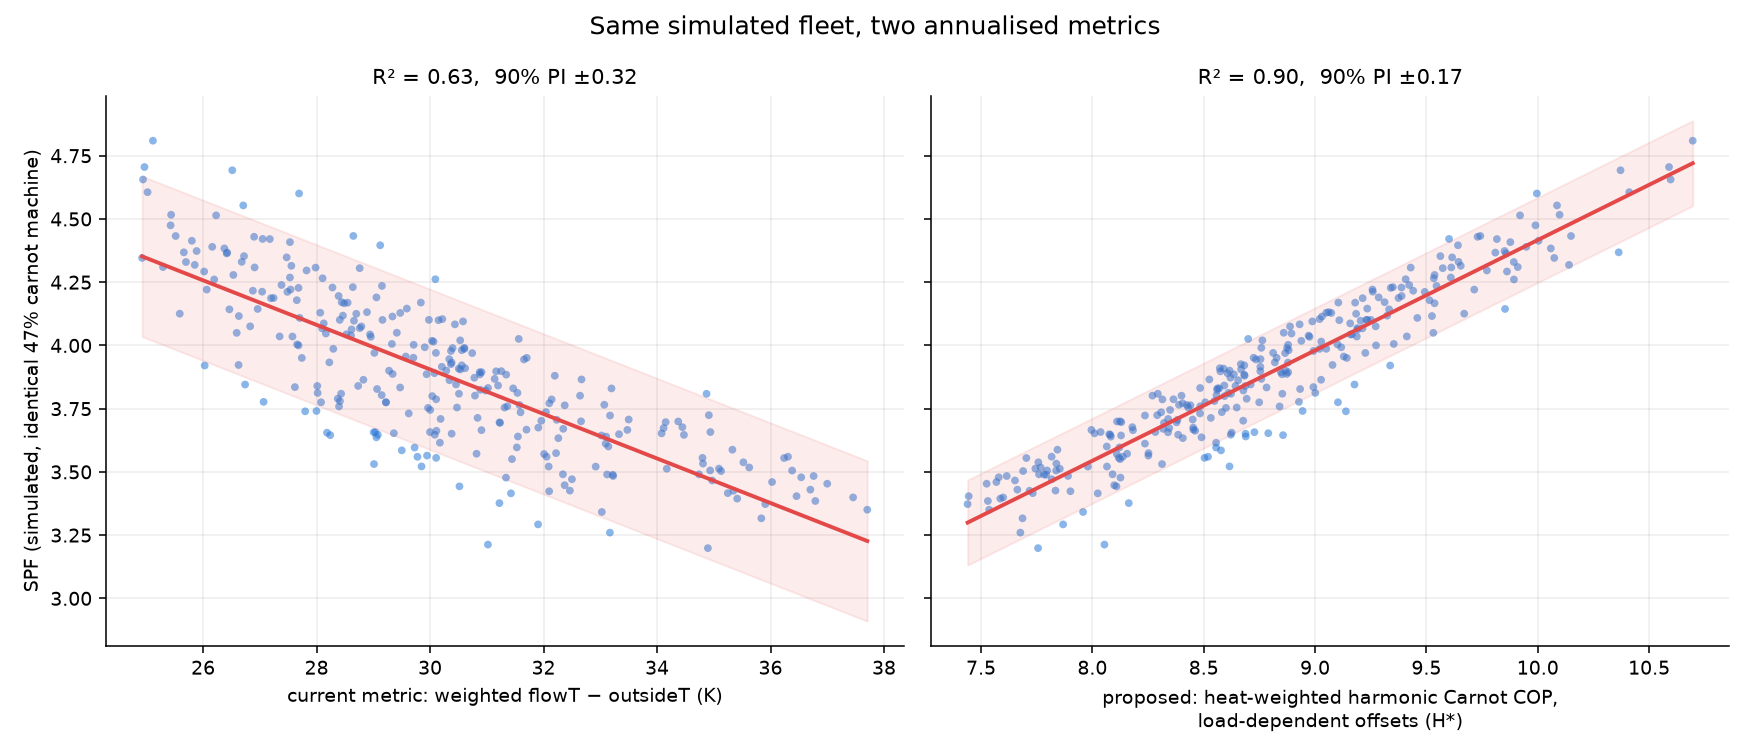
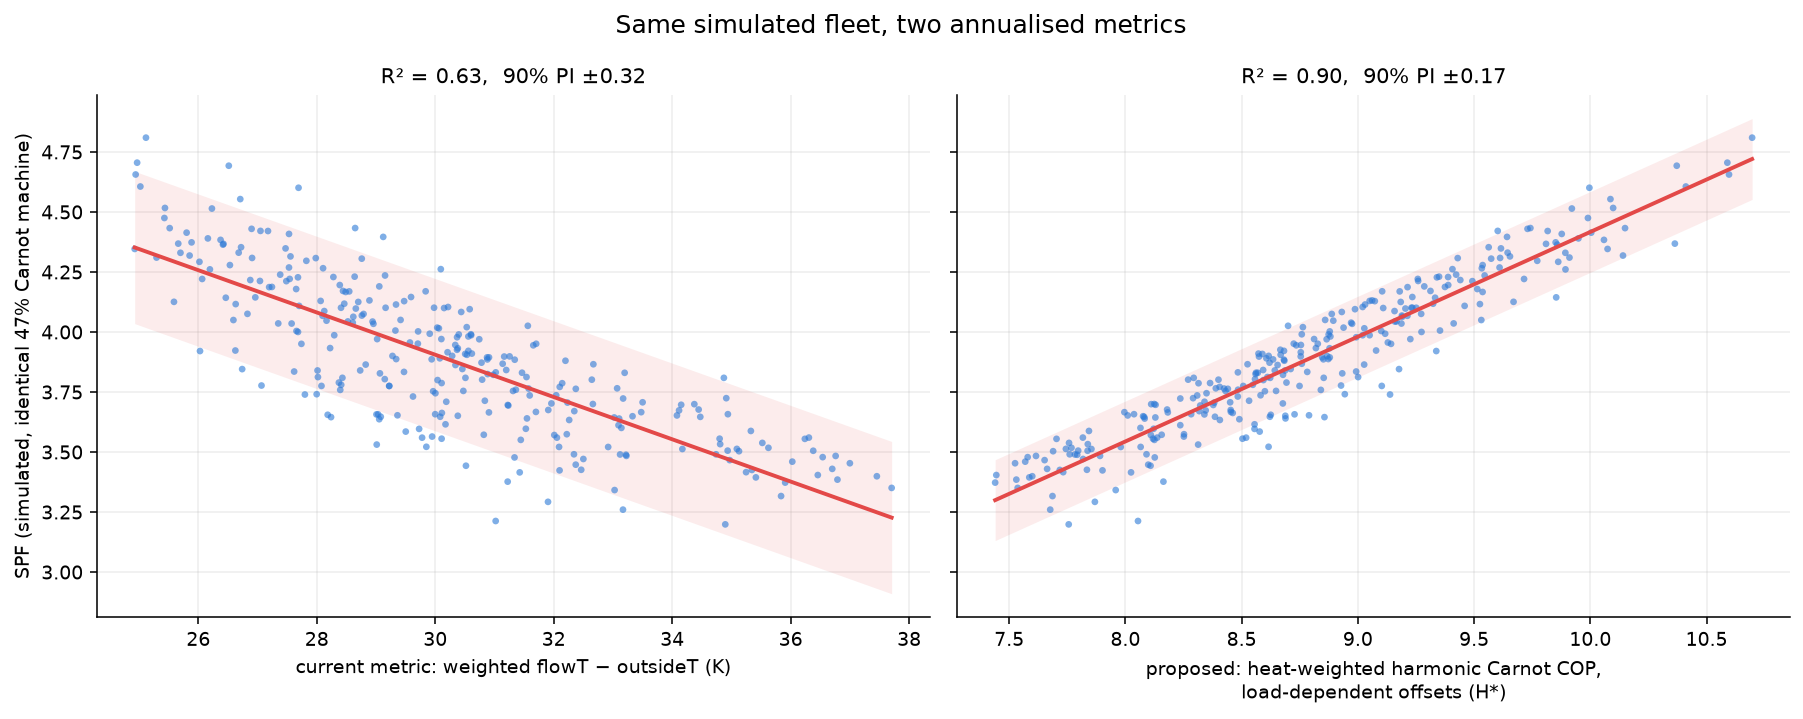
Bring performance prediction scripts in line with the docs
residual_analysis.py and the residual figure use the dT + log annual heat
model the docs quote. modulation_analysis.py only rewrites the committed
modulation_features.csv with --save. New hstar_plots.py and
metric_collapse_plot.py regenerate the three figures that had no script.
README records the tools commits and branch the October sweeps and twins
were run from.

diff --git a/analysis/performance_prediction/scripts/hstar_plots.py b/analysis/performance_prediction/scripts/hstar_plots.py
@@ -1,0 +1,109 @@
+#!/usr/bin/env python3
+"""Figures for the H* fleet test (docs/load_and_quality.md).
+
+  hstar_p_test.png         A: SPF against H*, B: the P test, SPF/H_fixed against P = H*/H_fixed
+  utilisation_vs_rbar.png  utilisation against heat-weighted mean load ratio r-bar
+
+Validated air source systems from the raw feed scan, as in analyse_hstar_fleet.py.
+r-bar comes from the per-system histogram hstar_hist.csv (not in git; regenerate
+with scripts/feed_scan/feed_scan_5.php at the repo root).
+
+Usage: python3 scripts/hstar_plots.py
+"""
+
+import numpy as np
+import pandas as pd
+import matplotlib
+matplotlib.use("Agg")
+import matplotlib.pyplot as plt
+from matplotlib.colors import LinearSegmentedColormap
+
+from hpmon_analysis import linfit, ROOT, FIGURES
+
+BLUE, ORANGE, INK, GRAY = "#2a78d6", "#e8692f", "#333333", "#52514e"
+SEQ = LinearSegmentedColormap.from_list("blues", ["#dbe9f9", "#2a78d6", "#0c2d5c"])
+
+# ---------- data ----------
+s = pd.read_csv(ROOT / "hstar_fleet_hist.csv")
+s = s[(s.hp_type == "Air Source")
+      & ((s.calc_weighted_dT - s.rec_weighted_dT).abs() <= 0.5)
+      & ((s.spf_window - s.rec_combined_cop).abs() <= 0.25)].copy()
+s["id"] = s.id.astype(str)
+
+h = pd.read_csv(ROOT / "hstar_hist.csv", dtype={"id": str})
+h = h[h.id.isin(s.id)]
+rbar = (h.heat_kwh * h.r).groupby(h.id).sum() / h.heat_kwh.groupby(h.id).sum()
+s["r_bar"] = s.id.map(rbar)
+s["utilisation"] = s.heat_kwh_all * 365 / s.days_scanned / (s.hp_output_kw * 8760)
+s["P"] = s.H_star / s.H_fixed
+s["quality"] = s.spf_window / s.H_fixed
+n = len(s)
+print(f"validated air source systems: {n}")
+print(f"r_bar median {s.r_bar.median():.2f} sd {s.r_bar.std():.2f};  "
+      f"utilisation median {s.utilisation.median():.2f};  sd(P) {s.P.std():.3f}")
+
+
+def style(ax):
+    ax.grid(alpha=0.22)
+    ax.set_axisbelow(True)
+    for side in ("top", "right"):
+        ax.spines[side].set_visible(False)
+
+
+# ---------- hstar_p_test.png ----------
+fig, (a, b) = plt.subplots(1, 2, figsize=(14, 6))
+for ax in (a, b):
+    style(ax)
+
+fa = linfit(s.H_star, s.spf_window)
+corr = np.corrcoef(s.H_star, -s.calc_weighted_dT)[0, 1]
+sc = a.scatter(s.H_star, s.spf_window, c=s.calc_weighted_dT, cmap=SEQ, s=26,
+               edgecolors="none", alpha=0.9)
+xs = np.linspace(s.H_star.min(), s.H_star.max(), 50)
+a.plot(xs, fa["slope"] * xs + fa["intercept"], color=INK, lw=1.2, ls="--")
+fig.colorbar(sc, ax=a, pad=0.02).set_label("weighted flowT − outsideT (K)")
+a.set_xlabel("H*: ideal COP, temperatures + load")
+a.set_ylabel("Measured SPF")
+a.set_title(f"A. SPF against H* mostly restates temperature\n"
+            f"R² = {fa['r2']:.2f}, corr(H*, −ΔT) = {corr:.2f}", loc="left", fontsize=11)
+
+fb = linfit(s.P, s.quality)
+q = (s.spf_window / s.H_star).median()
+b.scatter(s.P, s.quality, s=26, color=BLUE, edgecolors="none", alpha=0.75)
+xs = np.linspace(s.P.min(), s.P.max(), 50)
+b.plot(xs, q * xs, color=ORANGE, lw=2, label=f"identical machines (slope q ≈ {q:.2f})")
+b.plot(xs, fb["slope"] * xs + fb["intercept"], color=INK, lw=2, ls="--",
+       label=f"observed fit (slope {fb['slope']:+.2f})")
+b.legend(frameon=False, loc="upper left")
+b.set_xlabel("P = H*/H_fixed: the load model's adjustment for the year")
+b.set_ylabel("SPF / H_fixed: performance against temperature-only benchmark")
+b.set_title(f"B. The P test: the predicted slope is absent\n"
+            f"{n} validated air source systems, corr = {fb['r']:+.2f}", loc="left", fontsize=11)
+
+fig.tight_layout()
+out = FIGURES / "hstar_p_test.png"
+fig.savefig(out, dpi=140, bbox_inches="tight")
+print("saved", out)
+
+# ---------- utilisation_vs_rbar.png ----------
+ok = s.r_bar.notna()
+fu = linfit(s.r_bar[ok], s.utilisation[ok])
+fig, ax = plt.subplots(figsize=(9, 6.5))
+style(ax)
+ax.scatter(s.r_bar[ok], s.utilisation[ok], s=26, color=BLUE, edgecolors="none", alpha=0.75)
+xs = np.linspace(s.r_bar[ok].min(), s.r_bar[ok].max(), 50)
+ax.plot(xs, fu["slope"] * xs + fu["intercept"], color=INK, lw=1.2, ls="--")
+ax.text(0.06, 0.82, "runs long hours,\ngently modulating", transform=ax.transAxes,
+        color=GRAY, ha="left")
+ax.text(0.97, 0.08, "runs rarely, but\nhard when it does", transform=ax.transAxes,
+        color=GRAY, ha="right")
+ax.set_ylim(bottom=0)
+ax.set_xlabel("r̄: heat-weighted mean load ratio while running")
+ax.set_ylabel("Utilisation: annual heat ÷ (capacity × hours)")
+ax.set_title(f"Utilisation and mean load ratio are related but far from the same thing\n"
+             f"{ok.sum()} validated air source systems, r = {fu['r']:+.2f}",
+             loc="left", fontsize=11)
+fig.tight_layout()
+out = FIGURES / "utilisation_vs_rbar.png"
+fig.savefig(out, dpi=140, bbox_inches="tight")
+print("saved", out)

diff --git a/analysis/performance_prediction/scripts/metric_collapse_plot.py b/analysis/performance_prediction/scripts/metric_collapse_plot.py
@@ -1,0 +1,49 @@
+#!/usr/bin/env python3
+"""metric_collapse.png: the July 2026 simulator sweep against weighted dT and H*.
+
+Every simulated design has the same 47%-of-Carnot machine, so this shows how
+much of the scatter around SPF ~ dT H* removes when machines are identical
+(README section 4). Same comfort filter as metric_comparison.py.
+
+Usage: python3 scripts/metric_collapse_plot.py
+"""
+
+import numpy as np
+import pandas as pd
+import matplotlib
+matplotlib.use("Agg")
+import matplotlib.pyplot as plt
+
+from hpmon_analysis import linfit, ROOT, FIGURES
+
+BLUE, RED = "#2a78d6", "#e34948"
+
+s = pd.read_csv(ROOT / "sim_results.csv")
+s = s[s.degree_hours_below_setpoint < 2500].reset_index(drop=True)
+print(f"simulated designs after comfort filter: {len(s)}")
+
+panels = [
+    ("weighted_flowT_minus_outsideT", "current metric: weighted flowT − outsideT (K)"),
+    ("H_carnot_var", "proposed: heat-weighted harmonic Carnot COP,\nload-dependent offsets (H*)"),
+]
+fig, axes = plt.subplots(1, 2, figsize=(13, 5.2), sharey=True)
+for ax, (col, label) in zip(axes, panels):
+    fit = linfit(s[col], s.spf)
+    xs = np.linspace(s[col].min(), s[col].max(), 50)
+    ys = fit["slope"] * xs + fit["intercept"]
+    ax.fill_between(xs, ys - fit["pi90"], ys + fit["pi90"], color=RED, alpha=0.1, lw=0)
+    ax.scatter(s[col], s.spf, s=12, color=BLUE, alpha=0.6, edgecolors="none")
+    ax.plot(xs, ys, color=RED, lw=2)
+    ax.grid(alpha=0.22)
+    ax.set_axisbelow(True)
+    for side in ("top", "right"):
+        ax.spines[side].set_visible(False)
+    ax.set_xlabel(label)
+    ax.set_title(f"R² = {fit['r2']:.2f},  90% PI ±{fit['pi90']:.2f}", fontsize=11)
+    print(f"{col:32s} R2 {fit['r2']:.3f}  PI ±{fit['pi90']:.2f}")
+axes[0].set_ylabel("SPF (simulated, identical 47% Carnot machine)")
+fig.suptitle("Same simulated fleet, two annualised metrics", fontsize=13)
+fig.tight_layout()
+out = FIGURES / "metric_collapse.png"
+fig.savefig(out, dpi=140, bbox_inches="tight")
+print("saved", out)

diff --git a/analysis/performance_prediction/scripts/residual_analysis.py b/analysis/performance_prediction/scripts/residual_analysis.py
@@ -68,6 +68,7 @@ def build_features(f):
 
     # --- demand / DHW ---
     X["annual_heat_kwh"] = num(f.combined_heat_kwh)
+    X["ln_heat_mwh"] = np.log(num(f.combined_heat_kwh) * 365 / days / 1000)   # annualised
     X["heat_kwh_per_m2"] = num(f.combined_heat_kwh_per_m2).replace(0, np.nan)
     X["dhw_frac"] = num(f.water_heat_kwh) / (num(f.space_heat_kwh) + num(f.water_heat_kwh))
     X["water_cop"] = num(f.water_cop)
@@ -175,6 +176,7 @@ def main():
         "dT + flow_return_dT": ["dT", "flow_return_dT"],
         "dT + load_factor": ["dT", "load_factor"],
         "dT + annual_heat_kwh": ["dT", "annual_heat_kwh"],
+        "dT + ln annual heat (best small model)": ["dT", "ln_heat_mwh"],
         "dT + standby_elec_frac": ["dT", "standby_elec_frac"],
         "dT + runtime/standby": ["dT", "runtime_frac", "standby_power_w", "standby_elec_frac"],
         "dT + cycling": ["dT", "starts_per_run_hour", "starts_per_day"],
@@ -211,8 +213,9 @@ def main():
               f"90%|err|={r['cv_pi90']:.2f}")
 
     # ---------- interpretable OLS for the best small model ----------
+    # dT + ln(annual heat, MWh): nothing else adds to it under CV (README section 2)
     import statsmodels.api as sm
-    cols = ["dT", "annual_heat_kwh", "standby_elec_frac", "load_factor"]
+    cols = ["dT", "ln_heat_mwh"]
     Xo = X[cols].dropna()
     yo = y.loc[Xo.index]
     Xs = (Xo - Xo.mean()) / Xo.std()

diff --git a/analysis/performance_prediction/scripts/modulation_analysis.py b/analysis/performance_prediction/scripts/modulation_analysis.py
@@ -121,7 +121,7 @@ def main():
                            "heat_frac_below_40pct"] if c in XA]
     sets = {
         "dT only": ["dT"],
-        "dT + heat_kwh (prev best pair)": ["dT", "annual_heat_kwh"],
+        "dT + ln heat (best pair)": ["dT", "ln_heat_mwh"],
         "dT + modulation": ["dT"] + top_mod,
         "dT + heat_kwh + modulation": ["dT", "annual_heat_kwh"] + top_mod,
         "dT + heat + standby + modulation": ["dT", "annual_heat_kwh", "standby_elec_frac"] + top_mod,
@@ -131,10 +131,15 @@ def main():
         r = cv_eval(XA[cols], y, make_pipeline(SimpleImputer(strategy="median"), LinearRegression()))
         print(f"{name:40s} cv_R2={r['cv_r2']:.3f}  cv_RMSE={r['cv_rmse']:.3f}  90%|err|={r['cv_pi90']:.2f}")
 
-    M.insert(0, "id", f.id.values)
-    M["resid"] = resid
-    M.to_csv(ROOT / "modulation_features.csv", index=False)
-    print("\nsaved modulation_features.csv")
+    # modulation_features.csv is committed with the July 2026 fetch, which the
+    # docs and the downstream scripts use. Only overwrite it when asked.
+    if "--save" in sys.argv:
+        M.insert(0, "id", f.id.values)
+        M["resid"] = resid
+        M.to_csv(ROOT / "modulation_features.csv", index=False)
+        print("\nsaved modulation_features.csv")
+    else:
+        print("\nmodulation_features.csv not changed (pass --save to overwrite it)")
 
 
 if __name__ == "__main__":

diff --git a/analysis/performance_prediction/scripts/residual_plots.py b/analysis/performance_prediction/scripts/residual_plots.py
@@ -68,7 +68,7 @@ ax = axes[1, 1]
 from sklearn.linear_model import LinearRegression
 from sklearn.pipeline import make_pipeline
 from sklearn.impute import SimpleImputer
-cols = ["dT", "annual_heat_kwh", "standby_elec_frac"] + [c for c in X if c.startswith("make_")]
+cols = ["dT", "ln_heat_mwh"]
 r = cv_eval(X[cols], y, make_pipeline(SimpleImputer(strategy="median"), LinearRegression()))
 ax.scatter(r["oof"], y, s=16, alpha=0.55, color=BLUE, edgecolors="none")
 lims = [y.min() - 0.15, y.max() + 0.15]
@@ -76,7 +76,7 @@ ax.plot(lims, lims, color=GRAY, lw=1)
 ax.plot(lims, [v + r["cv_pi90"] for v in lims], color=RED, lw=1, ls="--")
 ax.plot(lims, [v - r["cv_pi90"] for v in lims], color=RED, lw=1, ls="--")
 ax.set_xlim(lims); ax.set_ylim(lims)
-ax.set_xlabel("Predicted SPF (held-out, dT + heat demand + standby + make)")
+ax.set_xlabel("Predicted SPF (held-out, dT + log annual heat)")
 ax.set_ylabel("Measured SPF H4")
 ax.set_title(f"Best honest model: cv R²={r['cv_r2']:.2f}, 90% of homes within ±{r['cv_pi90']:.2f}",
              fontsize=11)

diff --git a/analysis/performance_prediction/docs/README.md b/analysis/performance_prediction/docs/README.md
@@ -166,7 +166,8 @@ These figures use the histograms fetched in July 2026, kept in
 ## 4. The simulator and H\*
 
 A Node harness, now `sweep.js` in the
-[tools repo](https://github.com/openenergymonitor/tools), runs the
+[tools repo](https://github.com/openenergymonitor/tools) (branch
+`dynamic-heatpump-sweep`, not yet on main), runs the
 unmodified dynamic_heatpump tool over 400 randomised house and system
 designs and drops those that fail on comfort. It has been run on two
 versions of the simulator:
@@ -175,7 +176,8 @@ versions of the simulator:
   kept). Every design has the same machine at 47% of Carnot, with no
   defrost or pipework losses. The metric search and the design model used
   this sweep.
-- **October 2026** (`sim_carnot_2026-10.csv`, `sim_arotherm_2026-10.csv`).
+- **October 2026** (tools commit `e522457`, `sim_carnot_2026-10.csv`,
+  `sim_arotherm_2026-10.csv`).
   The simulator now has frost and defrost, primary pipework losses, a new
   cylinder model, and emitters sized from a design flow temperature
   (35–55 °C here). The same 400 houses were run with the carnot model and
@@ -326,11 +328,12 @@ written to `docs/figures/`.
 | `scripts/residual_analysis.py`, `residual_plots.py` | residual tests and CV harness (section 2) |
 | `scripts/regression_analysis.py` | utilisation, install and control categories, the coldest-day model (section 2 and design_model.md) |
 | `scripts/fetch_histograms.py`, `modulation_analysis.py`, `lowload_plots.py` | histogram features (section 3). Run `fetch_histograms.py` first, as the cache in `histograms/` isn't kept in git. `modulation_analysis.py` rewrites `modulation_features.csv` from the cache |
-| `scripts/sim_vs_real.py`, `metric_comparison.py`, `prc_carnot_offsets.py` | July simulator comparisons (section 4) |
+| `scripts/sim_vs_real.py`, `metric_comparison.py`, `prc_carnot_offsets.py`, `metric_collapse_plot.py` | July simulator comparisons (section 4) |
 | `scripts/analyse_hstar_fleet.py`, `analyse_hstar_offsets.py` | H\* fleet test and offset search (section 4) |
+| `scripts/hstar_plots.py` | P test and utilisation figures (load_and_quality.md); needs `hstar_hist.csv` |
 | `scripts/sim_model_comparison.py` | the same tests on the October sweeps and the fleet (section 4, load_and_quality.md) |
 | `scripts/design_model.py`, `design_model_plots.py` | design sheet model |
-| `twins/` | simulated datasheet twins of the fleet's Arotherm+ systems: `twin_targets.py` builds the targets, `twins.js` calibrates and runs the twins (needs the tools repo), `compare_twins.py` compares them with the real systems |
+| `twins/` | simulated datasheet twins of the fleet's Arotherm+ systems: `twin_targets.py` builds the targets, `twins.js` calibrates and runs the twins (needs the tools repo at `176ae57` or later), `compare_twins.py` compares them with the real systems |
 | `design_spf_tool/index.html` | interactive design sheet model |
 | `heatpumpmonitor_all_fields_*.csv` | fleet export |
 | `modulation_features.csv` | histogram features, July 2026 fetch |
@@ -339,8 +342,5 @@ written to `docs/figures/`.
 | `sim_results.csv` | July 2026 simulator sweep |
 | `sim_carnot_2026-10.csv`, `sim_arotherm_2026-10.csv` | October 2026 sweeps, carnot and Arotherm+ datasheet models |
 | `llanberis2024.csv` | the simulator's weather year, used by the design model (a copy from the tools repo) |
-| tools repo, `www/tools/dynamic_heatpump/` | the simulator; `sweep.js` there runs the Monte Carlo sweep |
+| tools repo, `www/tools/dynamic_heatpump/` | the simulator; `sweep.js` there runs the Monte Carlo sweep (branch `dynamic-heatpump-sweep`) |
 | `scripts/feed_scan/` (repo root) | the PHP feed scanners |
-
-`metric_collapse.png`, `hstar_p_test.png` and `utilisation_vs_rbar.png`
-were made during the original analysis and have no script here.
